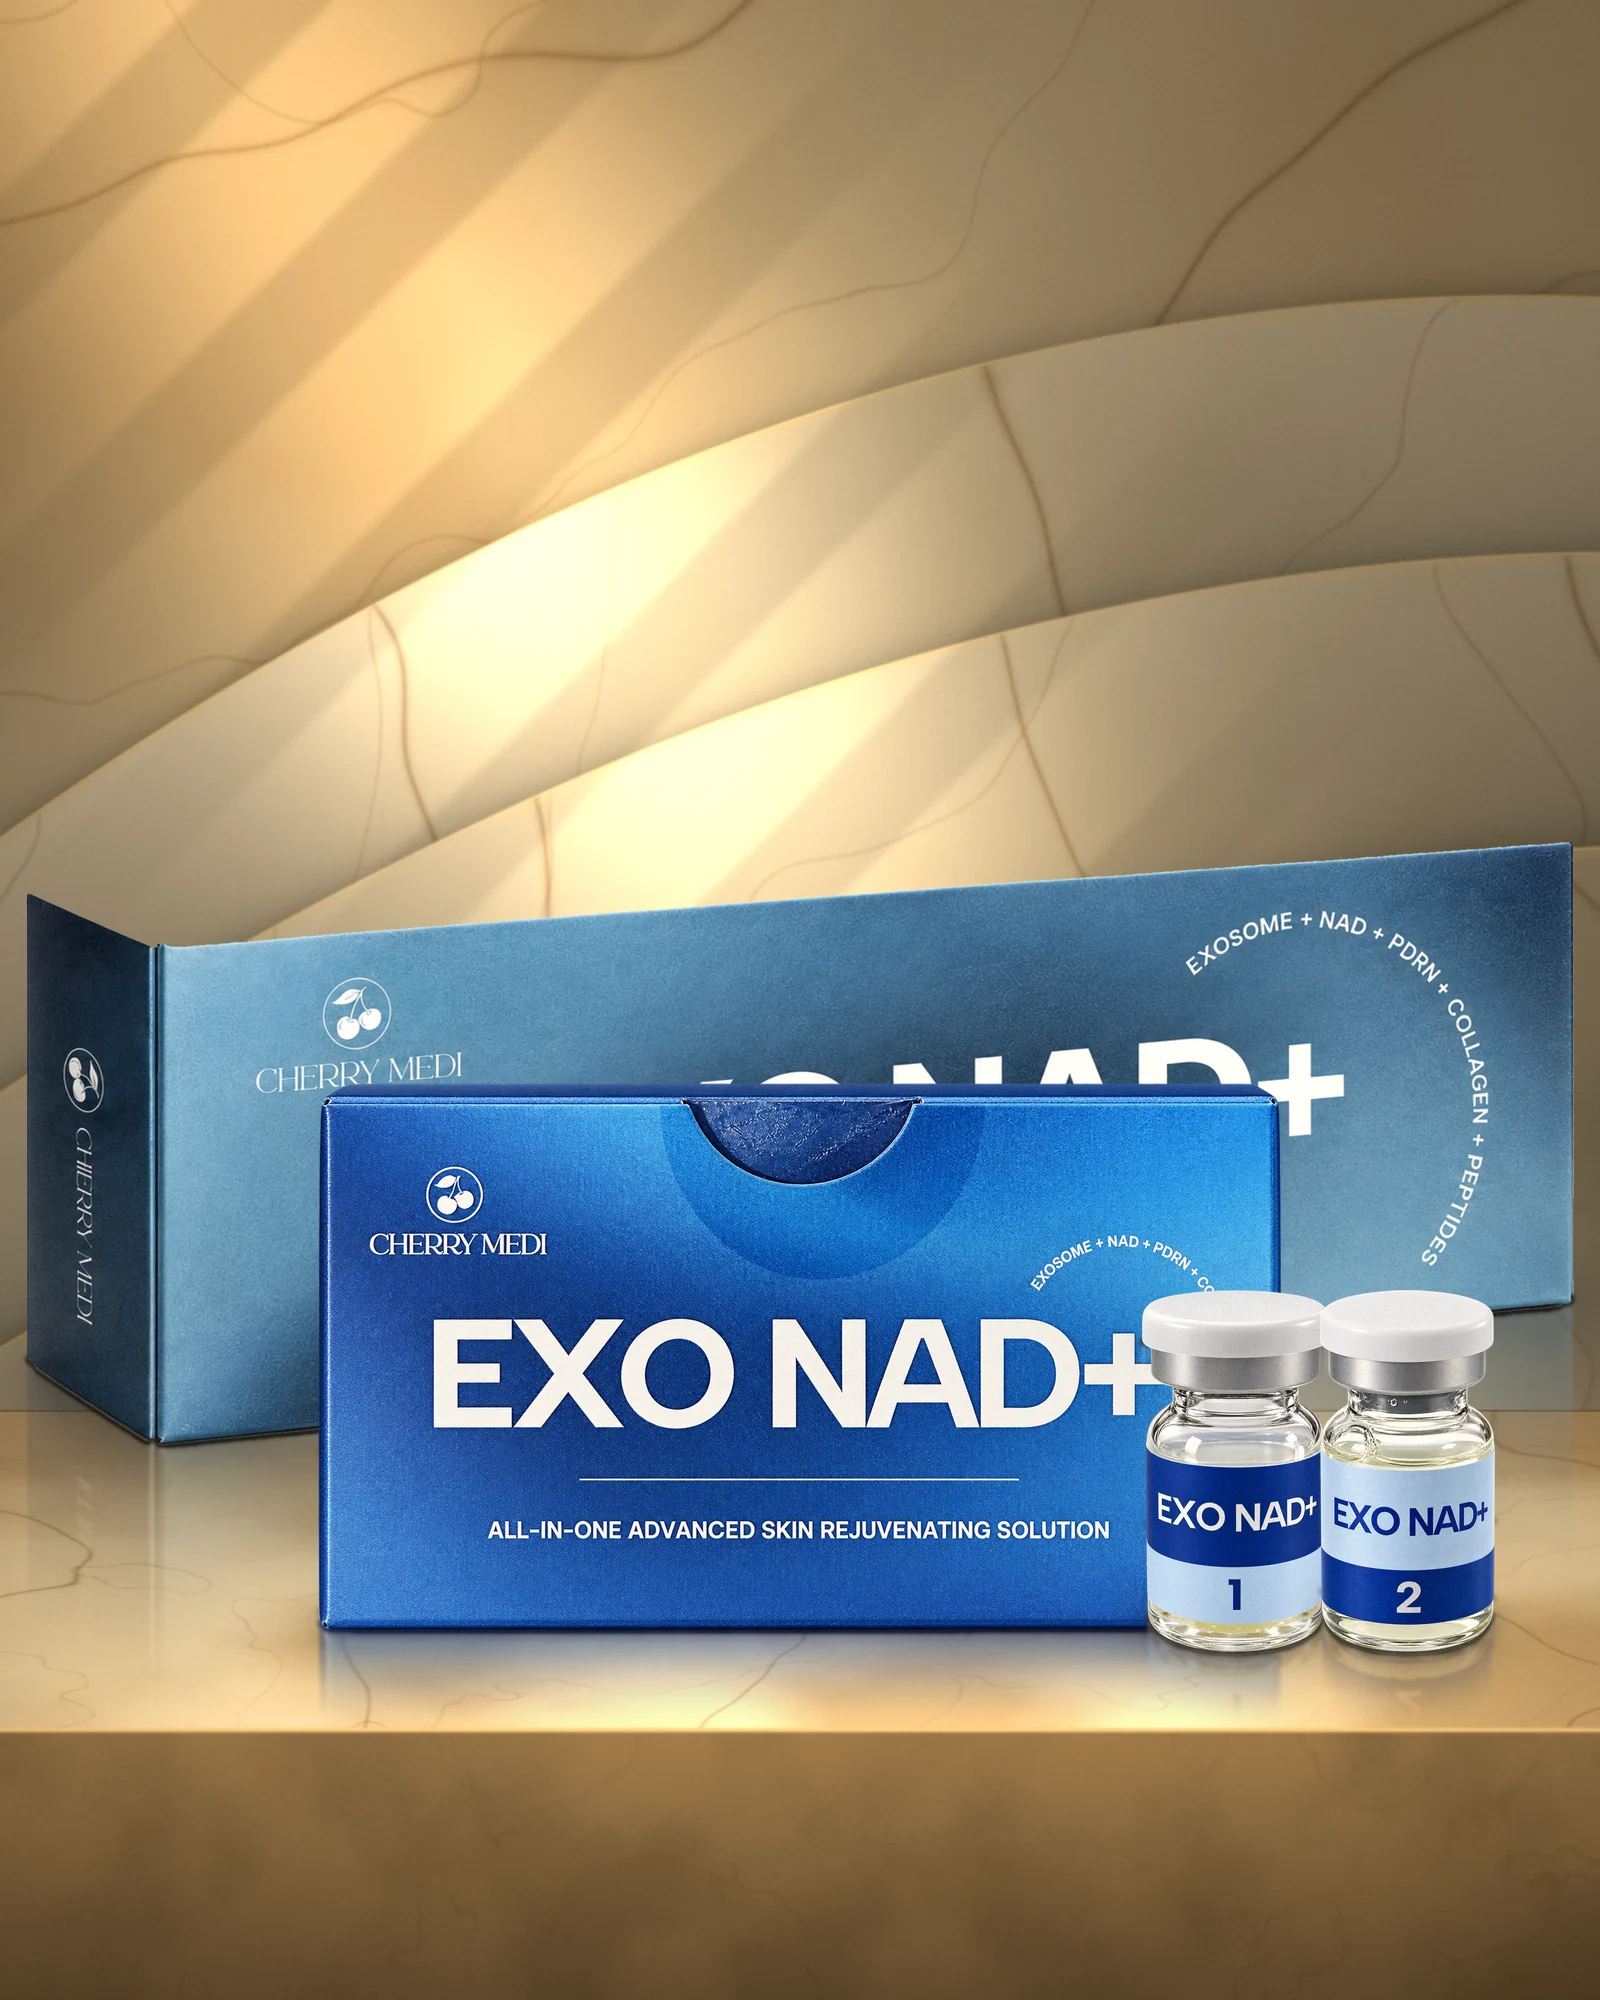
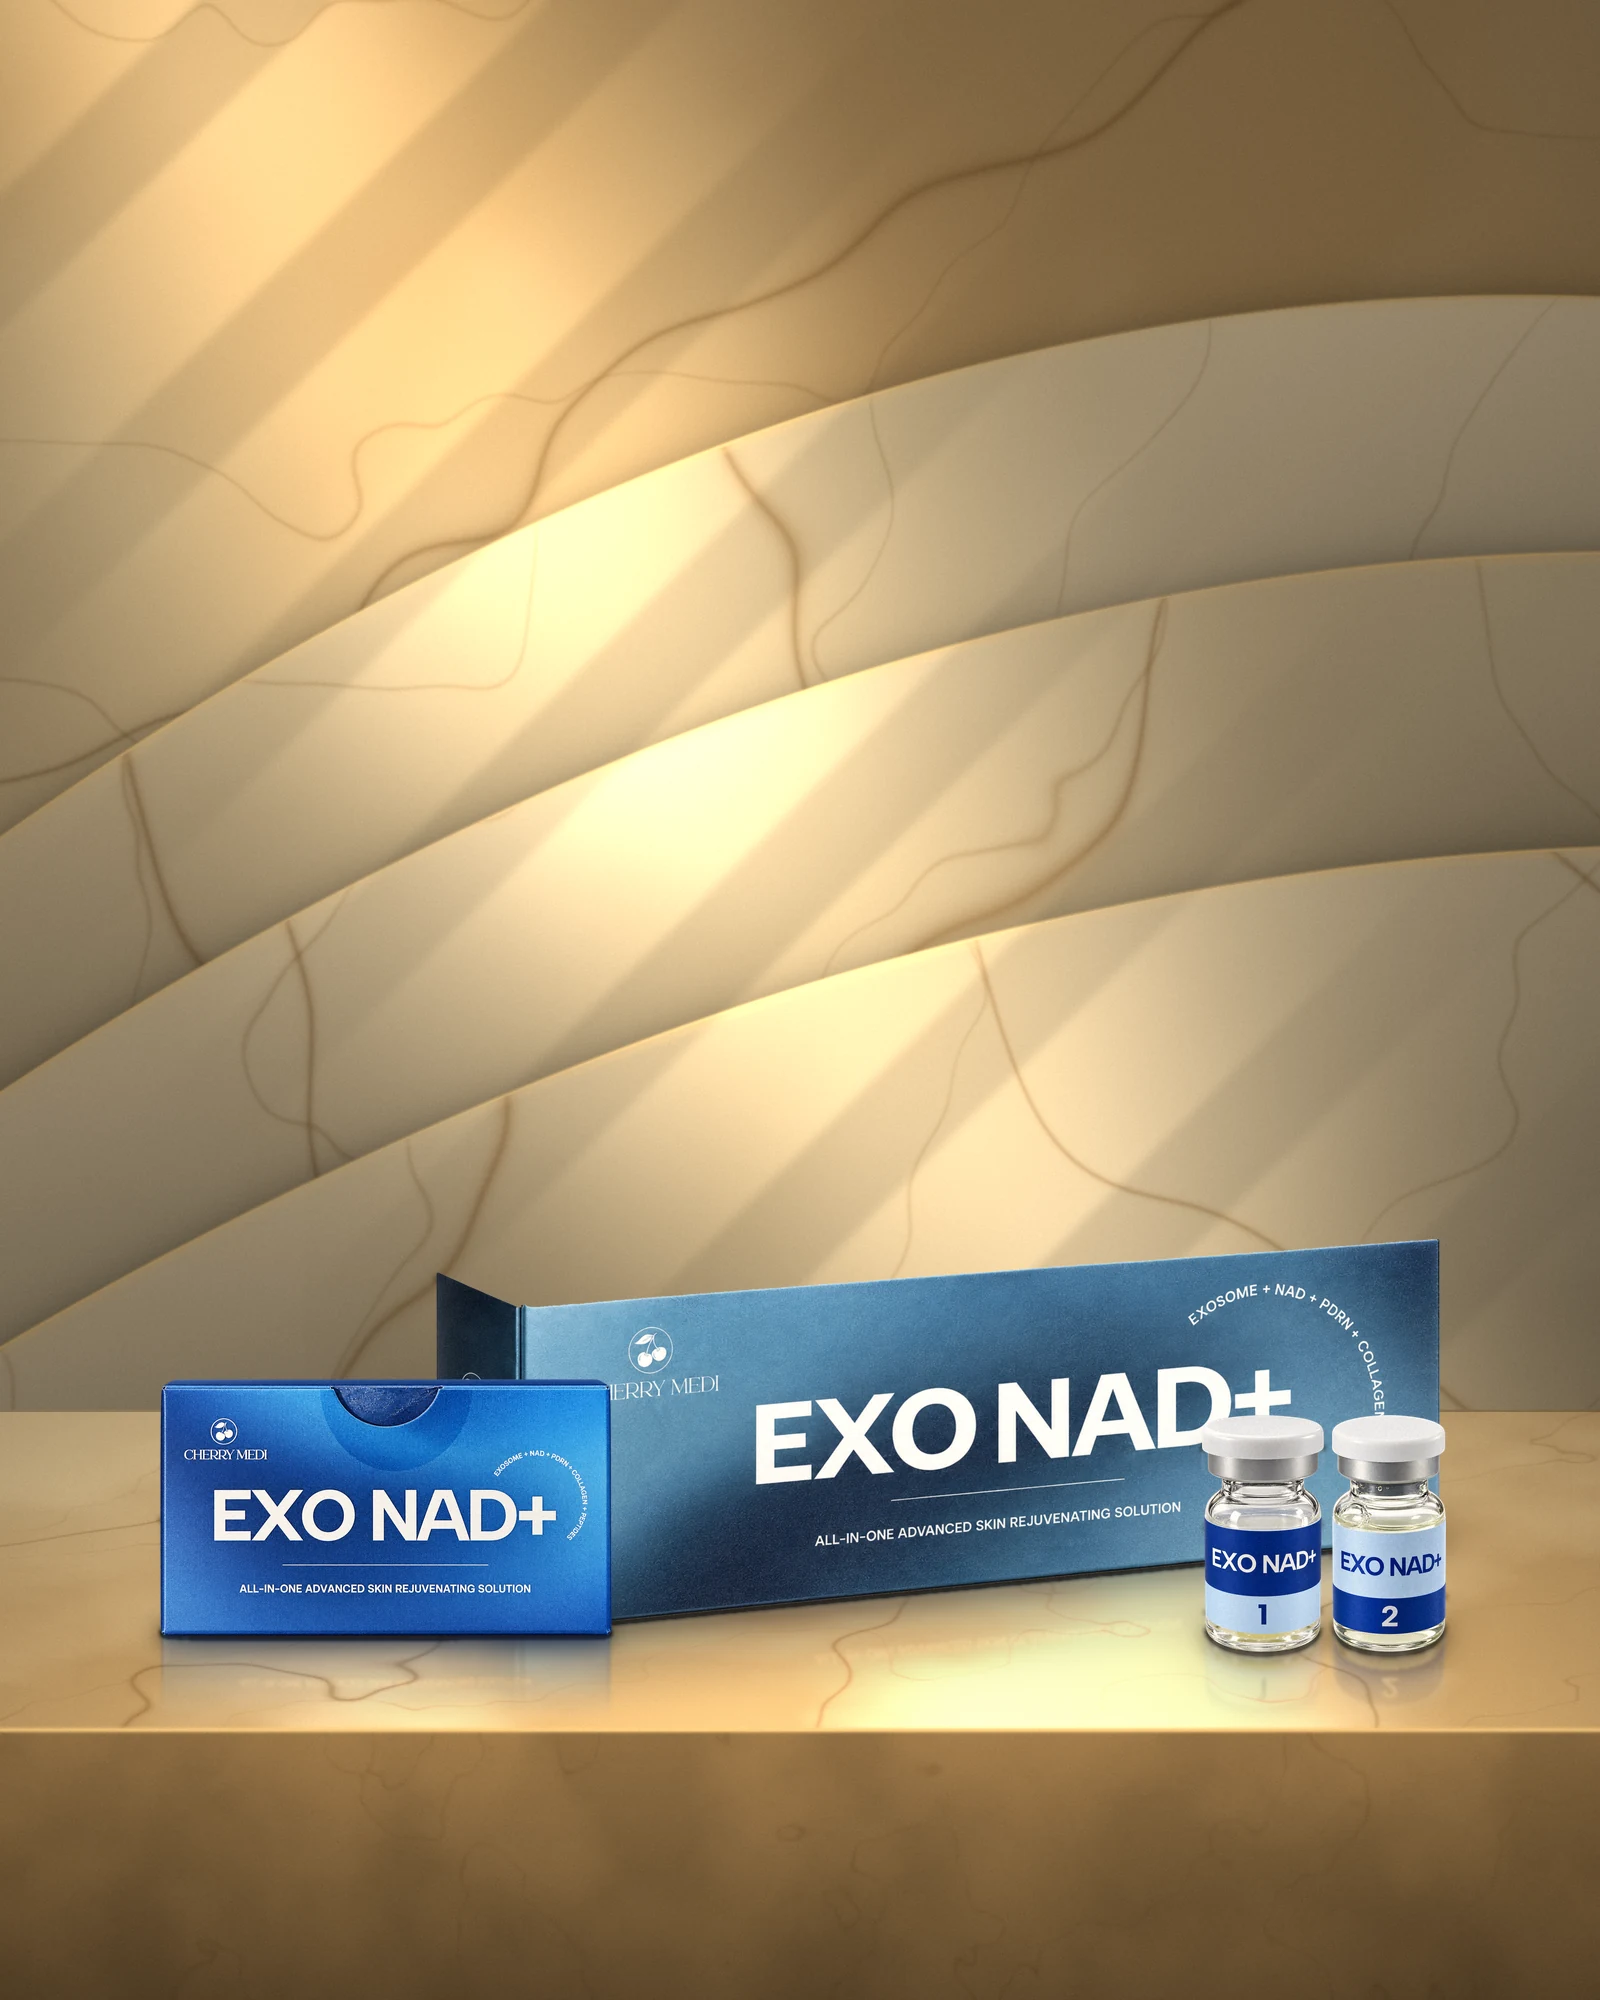
Exo NAD+ poster in the LXC structure; much smaller Yellow Drop vial
Claude-Session: https://claude.ai/code/session_01QGcBSACJc6UJhkJyeMqjJh

diff --git a/tools/fixface_add_items.py b/tools/fixface_add_items.py
@@ -145,18 +145,21 @@ def build(pid, src, src2):
         a = by_height(v('lxc-vials'), h)
         return [(a, x1 - a.width * 0.42, yb + FRONT, True)]
     if pid == 'exo-nad':
-        big = by_height(load_cut(f'{src2}/exonad-bigbox.jpg'), ph * 0.98)
-        small = by_height(main, ph)
-        va = by_height(v('exonad-vial-1'), ph * 0.66); vb = by_height(v('exonad-vial-2'), ph * 0.66)
-        big = by_height(load_cut(f'{src2}/exonad-bigbox.jpg'), ph * 1.10)
-        back = 0.722 * H                                                         # just behind, on the slab
-        return [(big, W - big.width / 2 - 26, back, True),                       # big box behind, to the right
-                (small, x0 + pw / 2, yb, False),                               # existing box redrawn on top
-                (va, x1 - va.width * 0.25, yb + FRONT, True), (vb, x1 + vb.width * 0.72, yb + FRONT, True)]
+        # same structure and on-screen sizes as the LXC poster (lxc.png: 1280x395 group, centred)
+        _, lw, lh, lx0, _ = main_geom(f'{src}/lxc.png'); lx1 = lx0 + lw
+        big = by_height(load_cut(f'{src2}/exonad-bigbox.jpg'), lh * 0.99)
+        small = by_height(main, lh * 0.65)
+        vh = lh * 0.60                                   # same vial height as LXC, below the small box
+        va = by_height(v('exonad-vial-1'), vh); vb = by_height(v('exonad-vial-2'), vh)
+        return [(big, lx1 - big.width / 2, yb, True),                     # big box behind, right
+                (small, lx0 + small.width / 2, yb + 6, True),             # small box in front, left
+                (va, lx1 - va.width * 1.45, yb + FRONT, True),            # vials front, right
+                (vb, lx1 - vb.width * 0.45, yb + FRONT, True)]
     if pid == 'yeellow-drop':
-        vial = by_height(main, ph * 0.80)
-        box = by_width(v('yellowdrop-box'), ph * 1.12)
-        return [(box, W * 0.43, yb - 30, True), (vial, W * 0.43 + box.width * 0.40, yb + FRONT, True)]
+        vial = by_height(main, ph * 0.55)                # clearly smaller vial
+        box = by_width(v('yellowdrop-box'), ph * 0.98)
+        bcx = W * 0.45
+        return [(box, bcx, yb - 30, True), (vial, bcx + box.width * 0.47, yb + FRONT, True)]
     if pid == 'yeellow-drop-old':
         box = by_width(v('yellowdrop-box'), ph * 1.0)                         # box as long as the vial is tall
         vial = by_height(main, ph)
@@ -175,7 +178,7 @@ def build(pid, src, src2):
     return []
 
 
-REBUILD = {'yeellow-drop', 'agasthi-deep', 'agasthi-fine', 'agasthi-sub-q'}
+REBUILD = {'yeellow-drop', 'exo-nad', 'agasthi-deep', 'agasthi-fine', 'agasthi-sub-q'}
 
 
 def fresh_background(pid, src):
